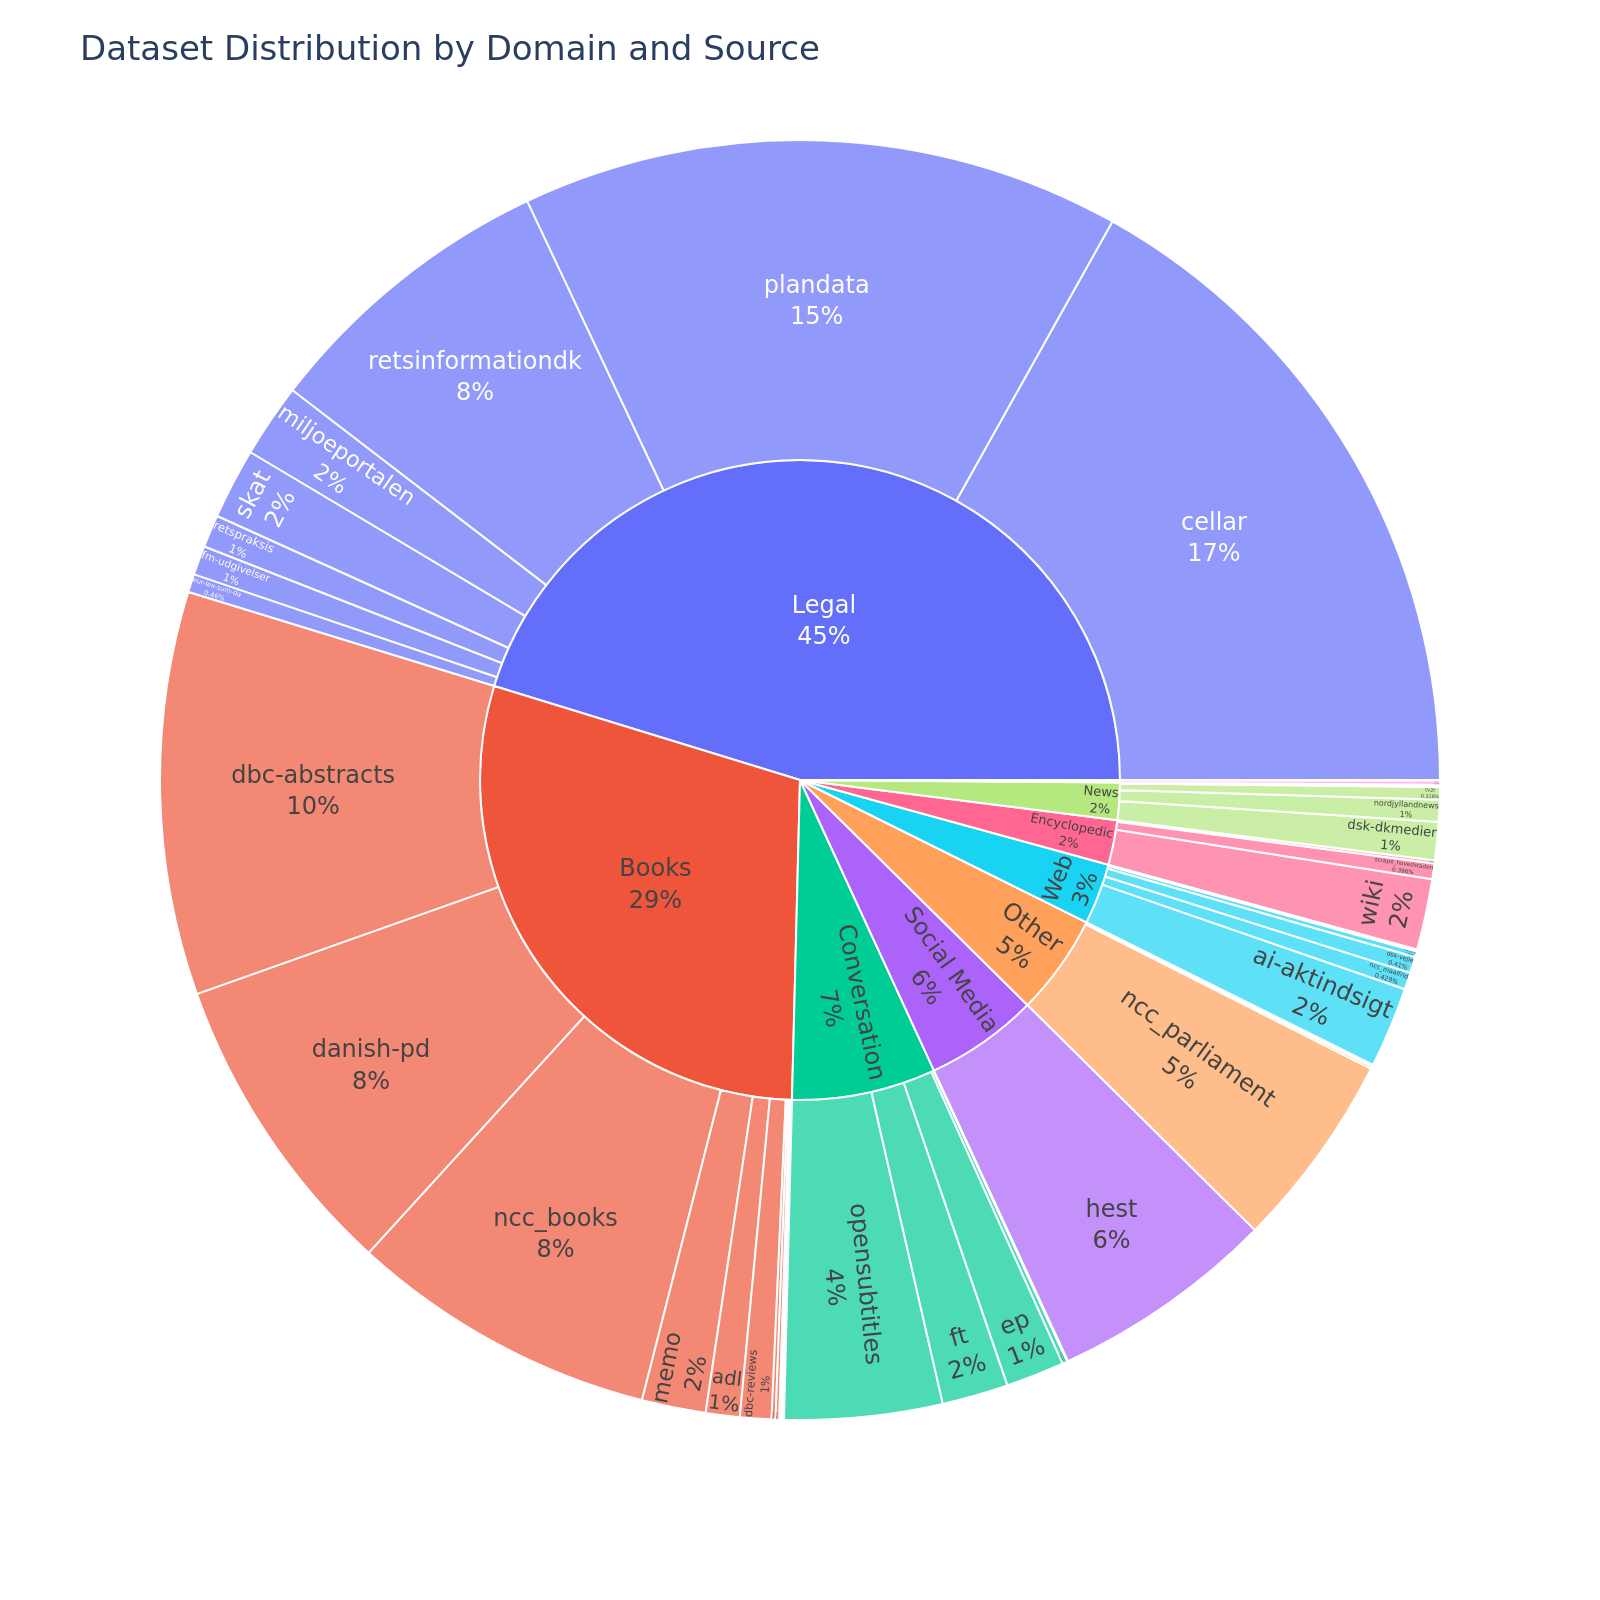
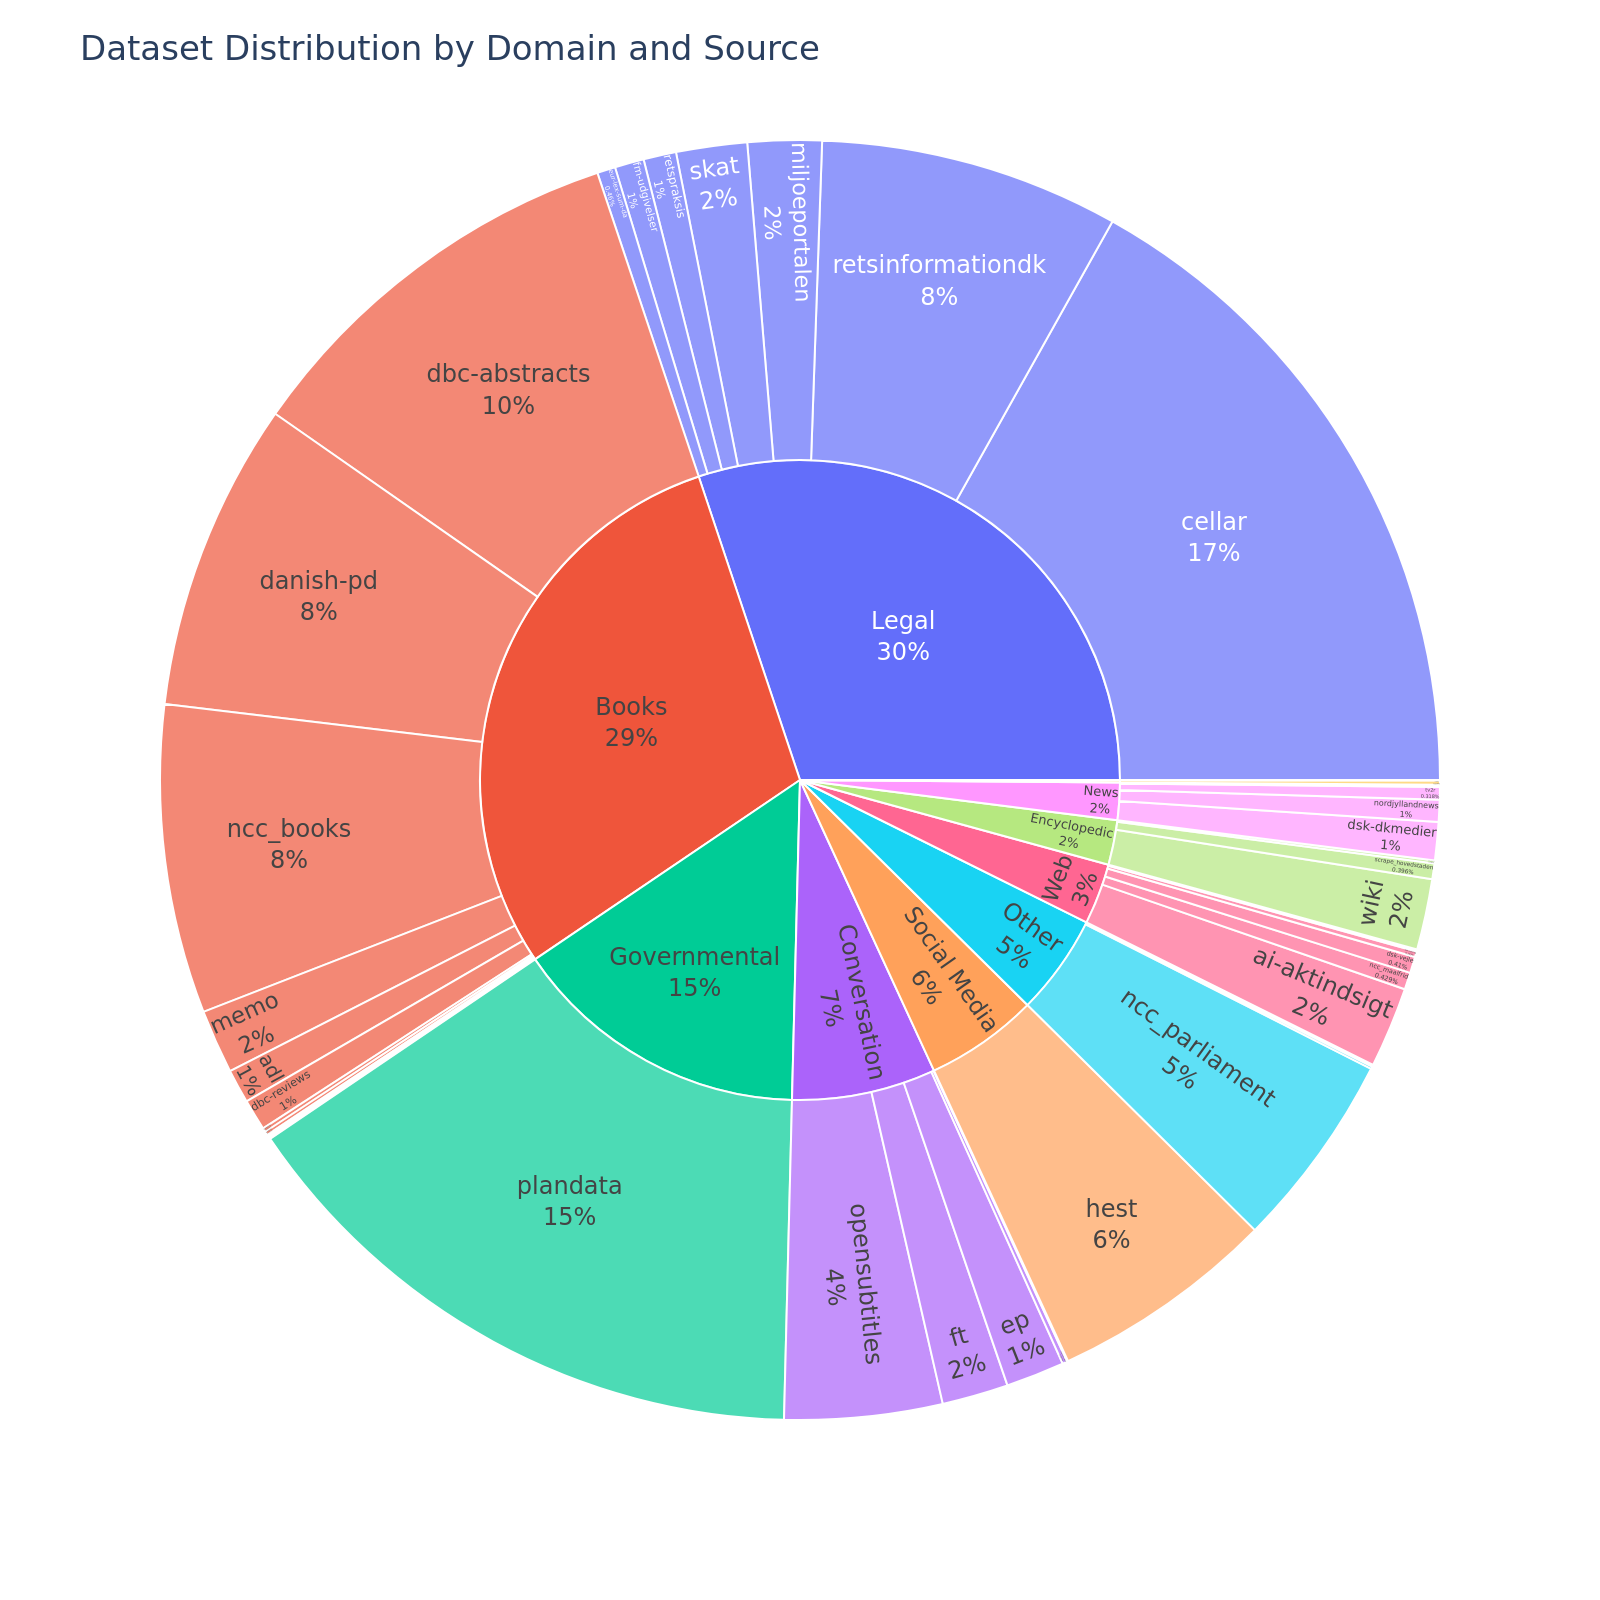
Update main readme with new domain and fixed license names

diff --git a/README.md b/README.md
@@ -129,8 +129,8 @@ We generally split the dataset into two categories: Public release sources and r
 <!-- START-MAIN TABLE -->
 | Source               | Description                                                                                                                                                                                             | Domain       | N. Tokens   | License                                           |
 |:---------------------|:--------------------------------------------------------------------------------------------------------------------------------------------------------------------------------------------------------|:-------------|:------------|:--------------------------------------------------|
-| [cellar]             | The official digital repository for European Union legal documents and open data                                                                                                                        | Legal        | 1.15B       | [CC BY-SA 4.0]                                    |
-| [plandata]           | A collection of documents pertaining to the planning of municipalities (Lokalplaner), regions, etc. in Denmark                                                                                          | Legal        | 1.03B       | [Unknown]                                         |
+| [cellar]             | The official digital repository for European Union legal documents and open data                                                                                                                        | Legal        | 1.15B       | [CC-BY-SA 4.0]                                    |
+| [plandata]           | A comprehensive dataset consisting of municipal planning documents from across Denmark, including local development plans, municipal plans, planning strategies, and related document types             | Governmental | 1.03B       | [Written agreement (public models, private data)] |
 | [dbc-abstracts]      | dbc-abstracts consists of more than 11.6 million abstracts of books and other materials collected and created by DBC D1G1TAL (former Dansk Bibliotekscenter)                                            | Books        | 694.42M     | [Written agreement (public models, private data)] |
 | [danish-pd]          | **Danish-Public Domain** or **Danish-PD** is a large collection aiming to aggregate all Danish monographies and periodicals in the public domain                                                        | Books        | 532.43M     | [Public Domain]                                   |
 | [ncc_books]          | Danish books extracted from the [Norwegian Colossal Corpus](https://huggingface.co/datasets/NbAiLab/NCC) derived from OCR                                                                               | Books        | 531.97M     | [CC-0]                                            |
@@ -143,15 +143,15 @@ We generally split the dataset into two categories: Public release sources and r
 | [skat]               | Skat is the Danish tax authority. This dataset contains content from its website skat.dk                                                                                                                | Legal        | 122.11M     | [CC-0]                                            |
 | [wiki]               | The Danish subsection of [wikipedia](https://en.wikipedia.org/wiki/Main_Page)                                                                                                                           | Encyclopedic | 122.00M     | [CC-0]                                            |
 | [ft]                 | Records from all meetings of The Danish parliament (Folketinget) in the parliament hall                                                                                                                 | Conversation | 114.09M     | [CC-0]                                            |
-| [memo]               | The MeMo corpus comprising almost all Danish novels from the period 1870-1899, known as the Modern Breakthrough                                                                                         | Books        | 110.23M     | [CC BY-SA 4.0]                                    |
+| [memo]               | The MeMo corpus comprising almost all Danish novels from the period 1870-1899, known as the Modern Breakthrough                                                                                         | Books        | 110.23M     | [CC-BY-SA 4.0]                                    |
 | [ep]                 | The Danish subsection of [Europarl](https://aclanthology.org/2005.mtsummit-papers.11/)                                                                                                                  | Conversation | 100.84M     | [CC-0]                                            |
 | [dsk-dkmedier]       | A collection of ~100K news articles from [DK Medier](https://dkmedier.dk), written in the period 2000-2024                                                                                              | News         | 65.33M      | [DSK-1]                                           |
 | [adl]                | Danish literature from 1700-2023 from the [Archive for Danish Literature](https://tekster.kb.dk/text?editorial=no&f%5Bsubcollection_ssi%5D%5B%5D=adl&match=one&search_field=Alt) (ADL)                  | Books        | 58.49M      | [CC-0]                                            |
 | [retspraksis]        | Case law or judical practice in Denmark derived from [Retspraksis](https://da.wikipedia.org/wiki/Retspraksis)                                                                                           | Legal        | 56.26M      | [CC-0]                                            |
 | [dbc-reviews]        | dbc-reviews consists of more than 214 thousand reviews of books and other materials collected and created by DBC D1G1TAL (former Dansk Bibliotekscenter)                                                | Books        | 53.96M      | [Written agreement (public models, private data)] |
-| [fm-udgivelser]      | The official publication series of the Danish Ministry of Finance containing economic analyses, budget proposals, and fiscal policy documents                                                           | Legal        | 50.33M      | [CC BY-SA 4.0]                                    |
+| [fm-udgivelser]      | The official publication series of the Danish Ministry of Finance containing economic analyses, budget proposals, and fiscal policy documents                                                           | Legal        | 50.33M      | [CC-BY-SA 4.0]                                    |
 | [nordjyllandnews]    | Articles from the Danish Newspaper [TV2 Nord](https://www.tv2nord.dk)                                                                                                                                   | News         | 37.90M      | [CC-0]                                            |
-| [eur-lex-sum-da]     | The Danish subsection of EUR-lex SUM consisting of EU legislation paired with professionally written summaries                                                                                          | Legal        | 31.37M      | [CC BY-SA 4.0]                                    |
+| [eur-lex-sum-da]     | The Danish subsection of EUR-lex SUM consisting of EU legislation paired with professionally written summaries                                                                                          | Legal        | 31.37M      | [CC-BY-SA 4.0]                                    |
 | [ncc_maalfrid]       | Danish content from Norwegian institutions websites                                                                                                                                                     | Web          | 29.26M      | [NLOD 2.0]                                        |
 | [dsk-vejle]          | A collection of crawled webpages that is managed by Vejle Kommune. Contains various information, covering everything from tourists to garbage collection to historical knowledge of the area            | Web          | 27.99M      | [DSK-1]                                           |
 | [scrape_hovedstaden] | Digitaliseringsstyrelsen udgiver ét datasæt på baggrund af offentliggjorte tekster fra Region Hovedstadens dokumentsamling                                                                              | Encyclopedic | 27.04M      | [CC-0]                                            |
